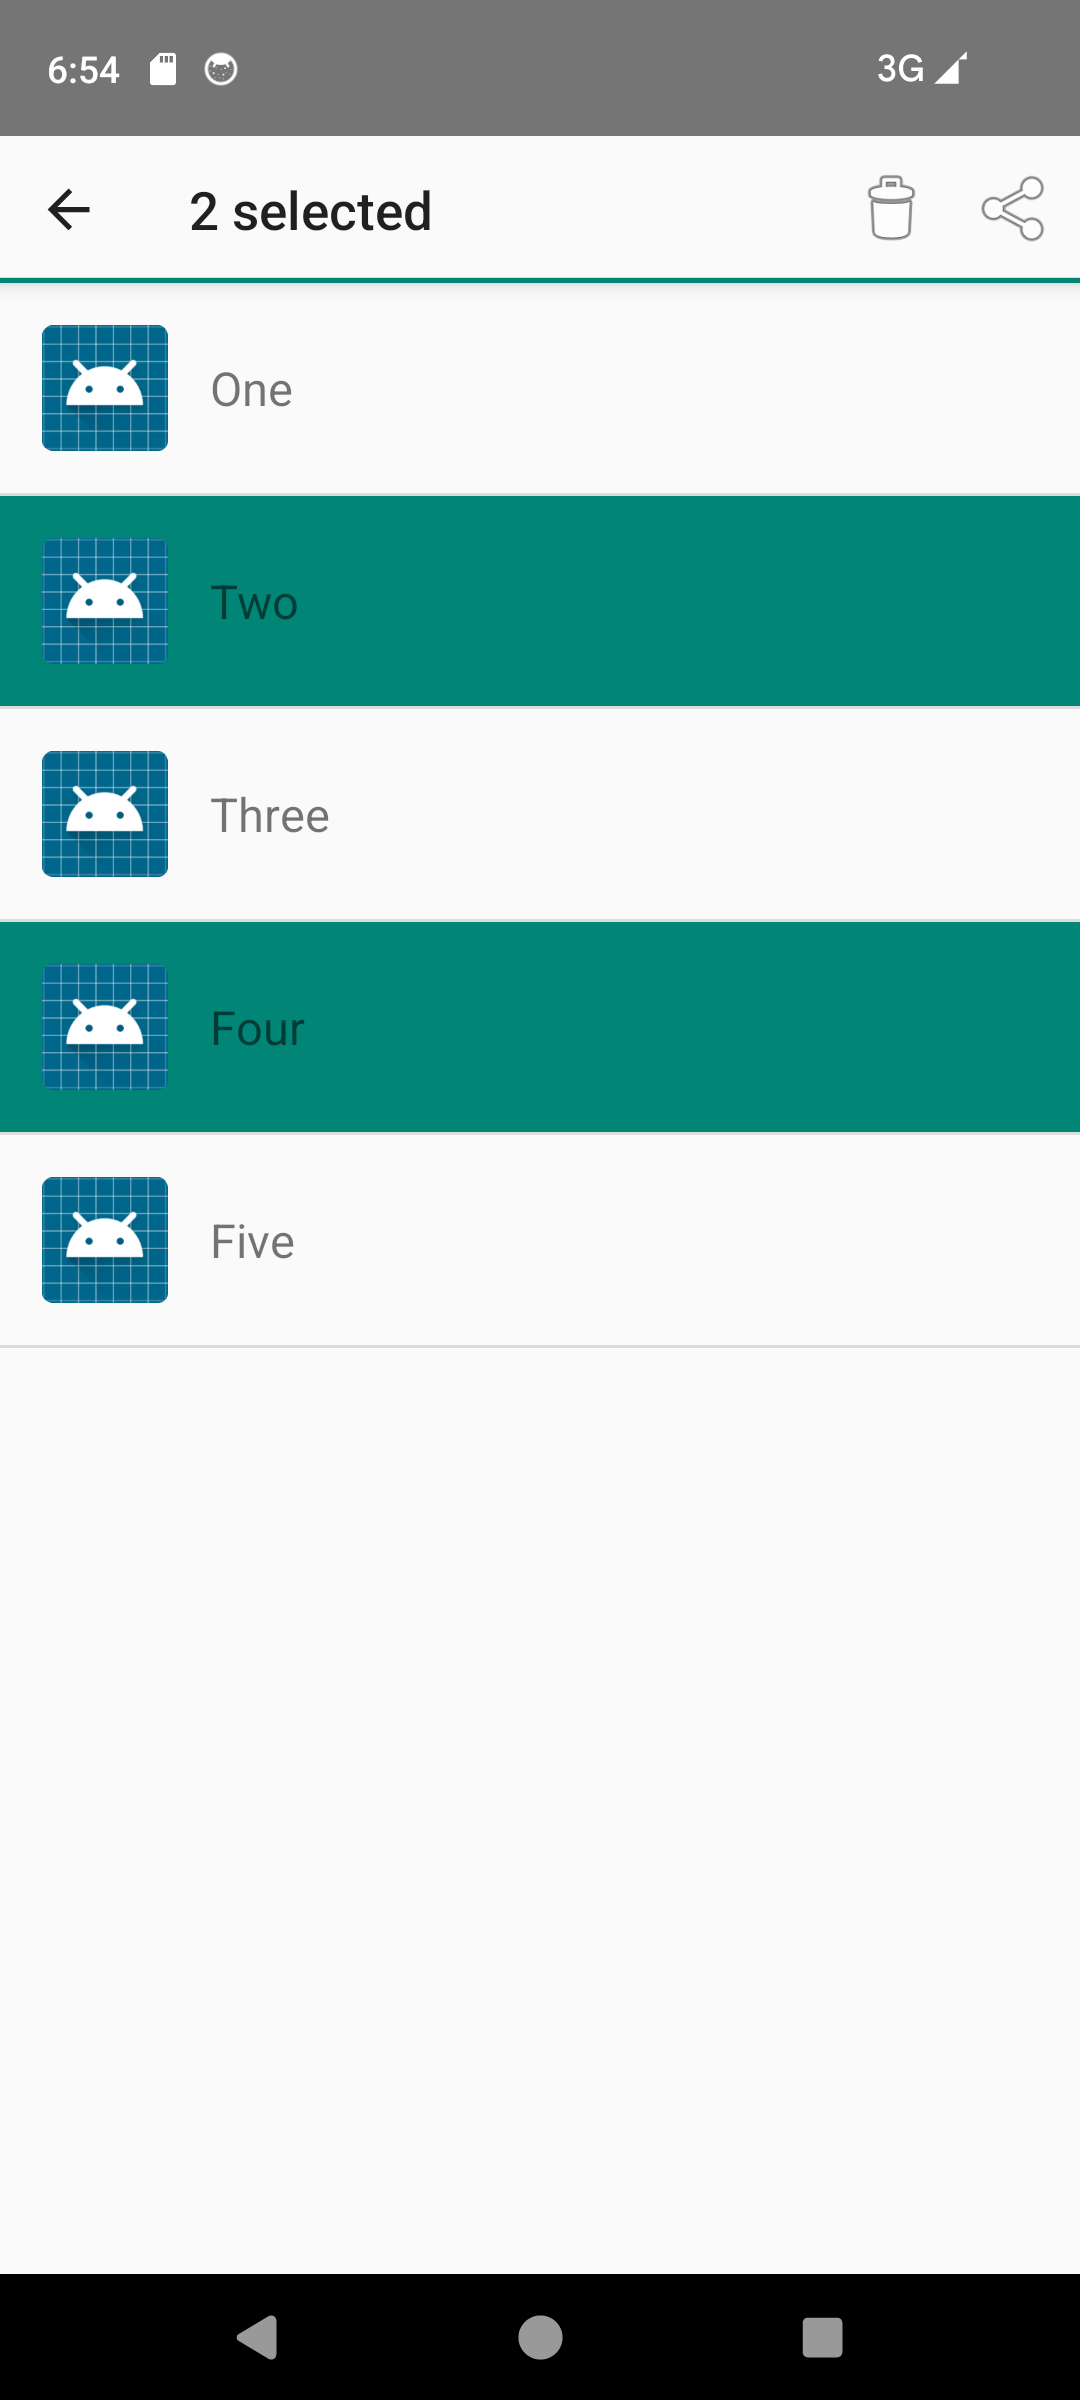
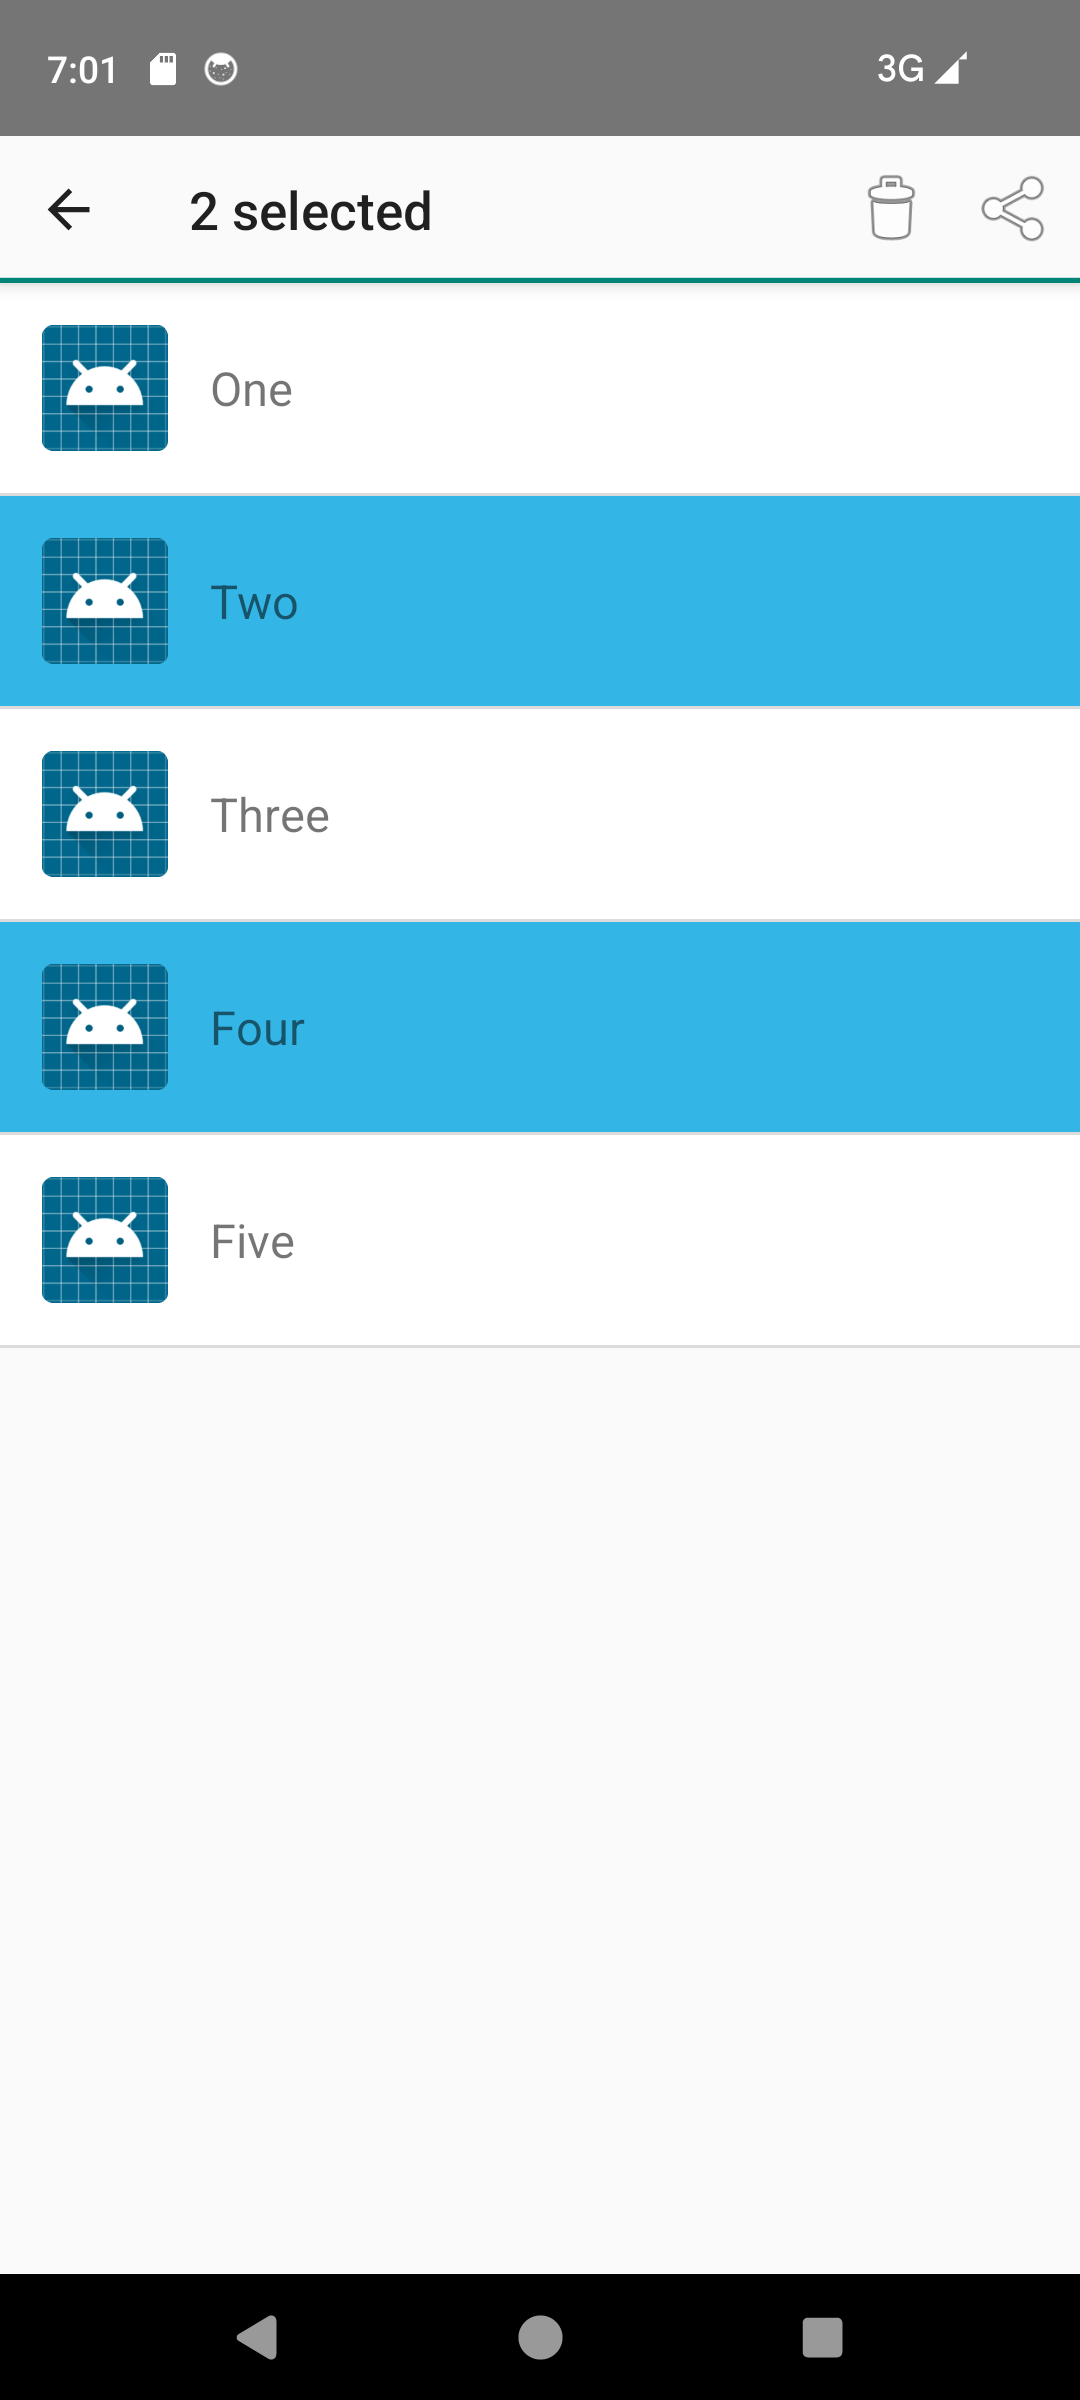
fix: ActionMode选中变蓝+RecyclerView支持添加列表项+Menu子菜单选项

Changed region(s): [[0.0, 0.1875, 1.0, 0.3125], [0.0, 0.375, 1.0, 0.4688], [0.0306, 0.0, 0.0611, 0.0312]]

diff --git a/app/src/main/java/com/example/test/RecyclerViewActivity.kt b/app/src/main/java/com/example/test/RecyclerViewActivity.kt
@@ -4,6 +4,8 @@ import android.app.Activity
 import android.os.Bundle
 import android.view.LayoutInflater
 import android.view.ViewGroup
+import android.widget.Button
+import android.widget.EditText
 import android.widget.ImageView
 import android.widget.TextView
 import android.widget.Toast
@@ -13,7 +15,7 @@ import androidx.recyclerview.widget.RecyclerView
 data class AnimalCard(val name: String, val desc: String, val imageRes: Int)
 
 class AnimalAdapter(
-    private val animals: List<AnimalCard>,
+    private val animals: MutableList<AnimalCard>,
     private val onItemClick: (AnimalCard) -> Unit
 ) : RecyclerView.Adapter<AnimalAdapter.AnimalViewHolder>() {
 
@@ -46,11 +48,17 @@ class AnimalAdapter(
     }
 
     override fun getItemCount() = animals.size
+
+    // 添加新项
+    fun addItem(animal: AnimalCard) {
+        animals.add(animal)
+        notifyItemInserted(animals.size - 1)
+    }
 }
 
 class RecyclerViewActivity : Activity() {
 
-    private val animals = listOf(
+    private val animals = mutableListOf(
         AnimalCard("猫", "一种常见的家养宠物，喜欢睡觉和玩耍", R.drawable.cat),
         AnimalCard("狗", "人类最忠实的朋友，聪明又忠诚", R.drawable.dog),
         AnimalCard("大象", "陆地上最大的哺乳动物，记忆力惊人", R.drawable.elephant),
@@ -59,15 +67,33 @@ class RecyclerViewActivity : Activity() {
         AnimalCard("老虎", "森林之王，独居的大型猫科动物", R.drawable.tiger)
     )
 
+    private lateinit var adapter: AnimalAdapter
+
     override fun onCreate(savedInstanceState: Bundle?) {
         super.onCreate(savedInstanceState)
         setContentView(R.layout.activity_recycler_view)
         actionBar?.title = "5. RecyclerView + CardView"
 
         val recyclerView = findViewById<RecyclerView>(R.id.recyclerView)
+        val etNewItem = findViewById<EditText>(R.id.etNewItem)
+        val btnAdd = findViewById<Button>(R.id.btnAdd)
+
         recyclerView.layoutManager = LinearLayoutManager(this)
-        recyclerView.adapter = AnimalAdapter(animals) { animal ->
+        adapter = AnimalAdapter(animals) { animal ->
             Toast.makeText(this, "点击了：${animal.name}", Toast.LENGTH_SHORT).show()
+        }
+        recyclerView.adapter = adapter
+
+        // 添加新项
+        btnAdd.setOnClickListener {
+            val name = etNewItem.text.toString().trim()
+            if (name.isNotEmpty()) {
+                adapter.addItem(AnimalCard(name, "新添加的列表项", R.drawable.cat))
+                etNewItem.text.clear()
+                Toast.makeText(this, "已添加：$name", Toast.LENGTH_SHORT).show()
+            } else {
+                Toast.makeText(this, "请输入名称", Toast.LENGTH_SHORT).show()
+            }
         }
     }
 }
